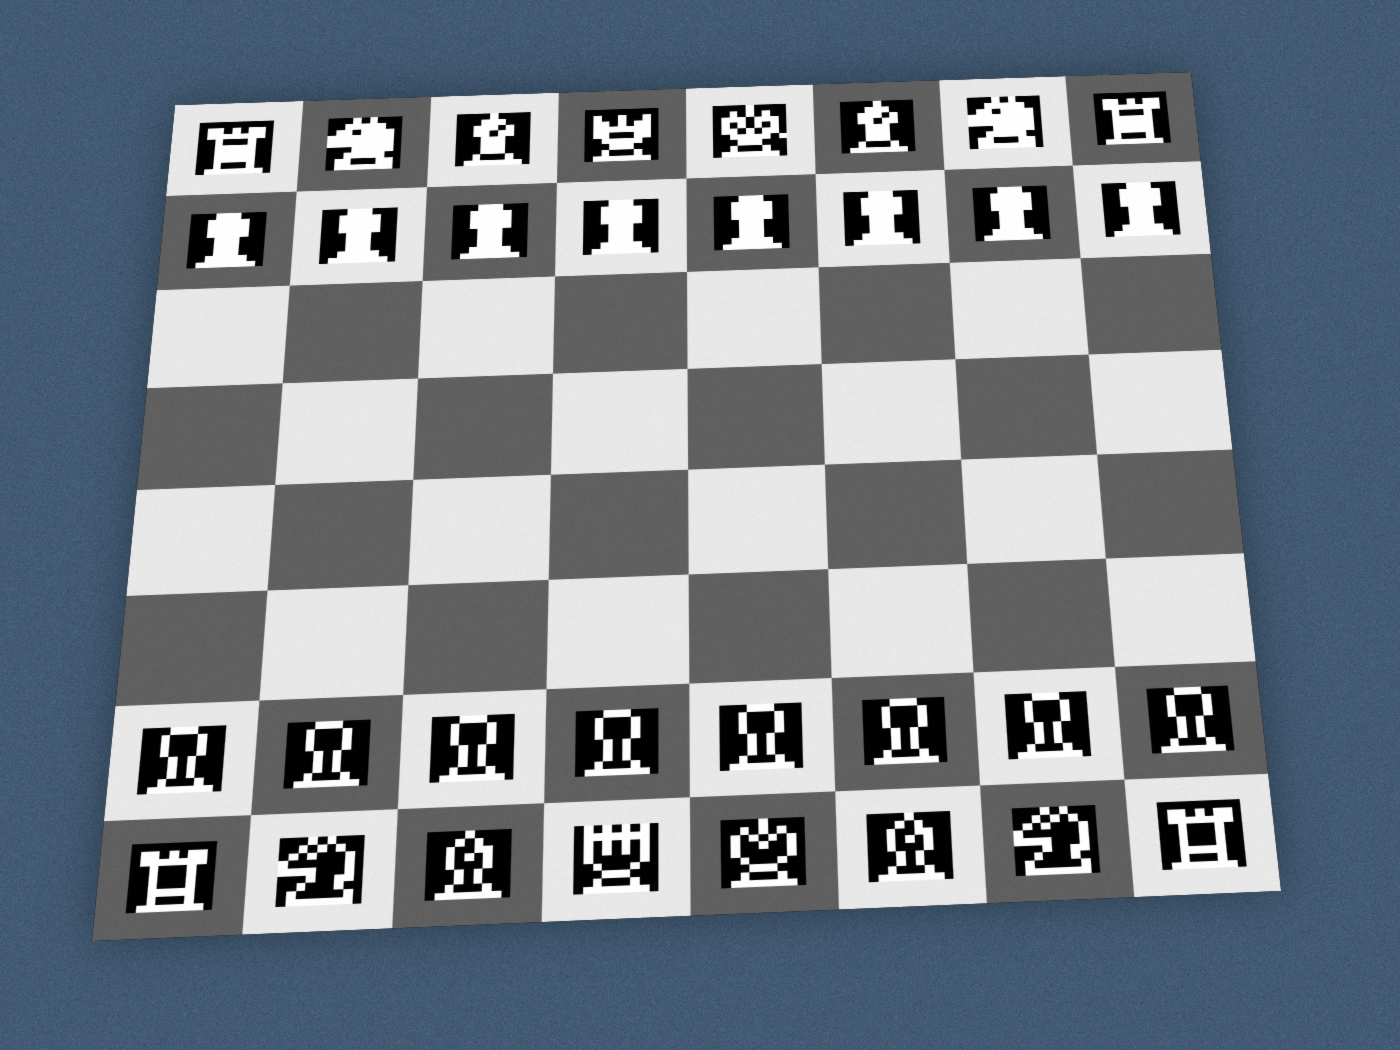
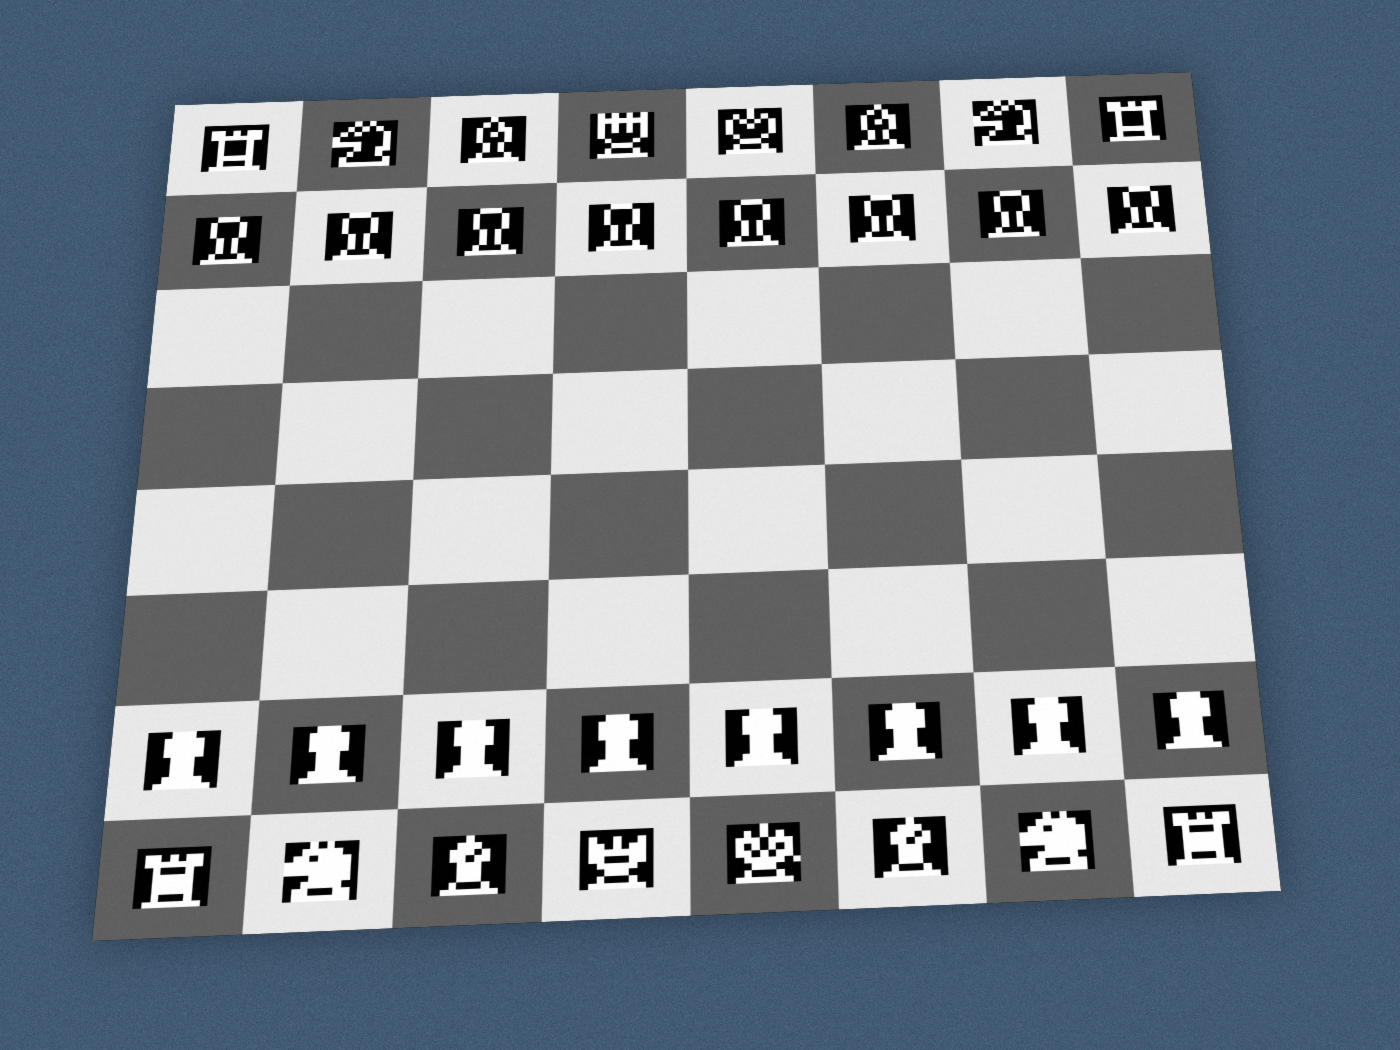
generate print sheets to be printed

diff --git a/aruco/generate_print_sheets.py b/aruco/generate_print_sheets.py
@@ -1,0 +1,67 @@
+#!/usr/bin/env python3
+"""Generate an A4 print sheet containing three 32-piece marker sets."""
+
+from __future__ import annotations
+
+import argparse
+from pathlib import Path
+
+import cv2
+import numpy as np
+
+from chess_fen import load_markers
+
+
+A4_WIDTH = 2480
+A4_HEIGHT = 3508
+STANDARD_SET = "kqrrbbnn" + "p" * 8 + "KQRRBBNN" + "P" * 8
+PIECE_SYMBOLS = STANDARD_SET * 3
+
+
+def put_text(image, text, position, scale=1.0, thickness=2, colour=(25, 25, 25)):
+    cv2.putText(image, text, position, cv2.FONT_HERSHEY_SIMPLEX, scale, colour, thickness,
+                cv2.LINE_AA)
+
+
+def render_marker(pattern, size: int) -> np.ndarray:
+    marker = np.where(np.asarray(pattern, dtype=np.uint8) == 1, 0, 255).astype(np.uint8)
+    return cv2.resize(marker, (size, size), interpolation=cv2.INTER_NEAREST)
+
+
+def marker_sheet(marker_file: Path, width: int = A4_WIDTH, height: int = A4_HEIGHT) -> np.ndarray:
+    patterns = load_markers(marker_file)
+    marker_indices = {symbol: index for index, symbol in enumerate("kqrbnpKQRBNP")}
+    sheet = np.full((height, width, 3), 255, dtype=np.uint8)
+    columns = 8
+    rows = 12
+    board_size = min(width - 260, height - 650)
+    marker_size = round(board_size / 12)
+    border = 1
+    grid_width = columns * marker_size + (columns - 1) * border
+    grid_height = rows * marker_size + (rows - 1) * border
+    margin_x = 0
+    margin_y = 0
+
+    for copy_number, symbol in enumerate(PIECE_SYMBOLS, start=1):
+        row, column = divmod(copy_number - 1, columns)
+        left = margin_x + column * (marker_size + border)
+        top = margin_y + row * (marker_size + border)
+        marker = render_marker(patterns[marker_indices[symbol]], marker_size)
+        sheet[top:top + marker_size, left:left + marker_size] = cv2.cvtColor(marker, cv2.COLOR_GRAY2BGR)
+
+    return sheet
+
+
+def main() -> int:
+    parser = argparse.ArgumentParser(description=__doc__)
+    parser.add_argument("output", type=Path, help="output A4 PNG path")
+    parser.add_argument("-m", "--markers", type=Path, default=Path("custom_markers.csv"))
+    args = parser.parse_args()
+    args.output.parent.mkdir(parents=True, exist_ok=True)
+    if not cv2.imwrite(str(args.output), marker_sheet(args.markers)):
+        raise OSError(f"could not write {args.output}")
+    return 0
+
+
+if __name__ == "__main__":
+    raise SystemExit(main())

diff --git a/aruco/test_chess_fen.py b/aruco/test_chess_fen.py
@@ -82,8 +82,8 @@ class ChessFenTests(unittest.TestCase):
             placements[(6, column)] = 5
             placements[(7, column)] = marker_id
         expected = self.expected_fen([
-            "rnbqkbnr", "pppppppp", "........", "........",
-            "........", "........", "PPPPPPPP", "RNBQKBNR",
+            "RNBQKBNR", "PPPPPPPP", "........", "........",
+            "........", "........", "pppppppp", "rnbqkbnr",
         ])
         self.assertEqual(self.decode(self.render_board(placements)), expected)
 
@@ -94,7 +94,7 @@ class ChessFenTests(unittest.TestCase):
             for column in range(6)
         }
         rotations = {(row, column): (row + column) % 4 for row, column in placements}
-        expected_rows = ["KQRBNP2"] + ["........"] * 6 + ["kqrbnp2"]
+        expected_rows = ["kqrbnp2"] + ["........"] * 6 + ["KQRBNP2"]
         self.assertEqual(
             self.decode(self.render_board(placements, rotations)),
             self.expected_fen(expected_rows),
@@ -110,7 +110,7 @@ class ChessFenTests(unittest.TestCase):
             (7, 7): 5,
         }
         expected_rows = [
-            "4k3", "8", "3B4", "5p2", "2K5", "6r1", "8", "7P",
+            "4K3", "8", "3b4", "5P2", "2k5", "6R1", "8", "7p",
         ]
         self.assertEqual(self.decode(self.render_board(placements)), self.expected_fen(expected_rows))
 
@@ -123,7 +123,7 @@ class ChessFenTests(unittest.TestCase):
         destination = np.array([[70, 40], [1060, 20], [1100, 1010], [30, 1040]], dtype=np.float32)
         transform = cv2.getPerspectiveTransform(source, destination)
         image = cv2.warpPerspective(self.render_board(placements), transform, (1130, 1080), borderValue=(255, 255, 255))
-        expected_rows = ["K7", "1q6", "2Q5", "3r4", "4R3", "5b2", "6B1", "7n"]
+        expected_rows = ["k7", "1Q6", "2q5", "3R4", "4r3", "5B2", "6b1", "7N"]
         self.assertEqual(self.decode(image, destination), self.expected_fen(expected_rows))
 
     def test_fen_generator_round_trip(self):

diff --git a/aruco/generate_chess_position.py b/aruco/generate_chess_position.py
@@ -12,7 +12,7 @@ import numpy as np
 from chess_fen import load_markers
 
 
-PIECE_MARKER_INDEX = {symbol: index for index, symbol in enumerate("KQRBNPkqrbnp")}
+PIECE_MARKER_INDEX = {symbol: index for index, symbol in enumerate("kqrbnpKQRBNP")}
 
 
 def parse_fen_board(fen: str) -> list[list[str | None]]:
@@ -41,7 +41,7 @@ def render_position(
     fen: str,
     marker_file: Path = Path("custom_markers.csv"),
     board_size: int = 960,
-    marker_fraction: float = 2.0 / 3.0,
+    marker_fraction: float = 0.5,
     rotation: int = 0,
 ) -> np.ndarray:
     if board_size < 8:
@@ -86,7 +86,7 @@ def main() -> int:
     parser.add_argument("output", type=Path, help="output PNG path")
     parser.add_argument("-m", "--markers", type=Path, default=Path("custom_markers.csv"))
     parser.add_argument("--size", type=int, default=960, help="board width and height in pixels")
-    parser.add_argument("--marker-fraction", type=float, default=2.0 / 3.0,
+    parser.add_argument("--marker-fraction", type=float, default=0.5,
                         help="marker width as a fraction of a board square")
     parser.add_argument("--rotation", type=int, choices=range(4), default=0,
                         help="rotate every marker by 90-degree turns")

diff --git a/aruco/chess_fen.py b/aruco/chess_fen.py
@@ -2,8 +2,8 @@
 """Detect the custom 9x9 chess-piece markers in a photograph and print FEN.
 
 The marker file contains one 9x9 bitmap per line, encoded row-by-row as hex.
-The first six markers are white pieces (K, Q, R, B, N, P); the last six are
-the corresponding black pieces (k, q, r, b, n, p).
+The first six markers are black pieces (k, q, r, b, n, p); the last six are
+the corresponding white pieces (K, Q, R, B, N, P).
 """
 
 from __future__ import annotations
@@ -16,7 +16,7 @@ from pathlib import Path
 
 
 MARKER_SIZE = 9
-PIECE_SYMBOLS = "KQRBNPkqrbnp"
+PIECE_SYMBOLS = "kqrbnpKQRBNP"
 
 
 @dataclass

diff --git a/aruco/generate_photorealistic_test.py b/aruco/generate_photorealistic_test.py
@@ -29,7 +29,7 @@ def make_test_image(
     seed: int = 2026,
 ) -> tuple[np.ndarray, np.ndarray]:
     rng = np.random.default_rng(seed)
-    board = render_position(fen, board_size=960, marker_fraction=0.58)
+    board = render_position(fen, board_size=960, marker_fraction=0.5)
     board = add_print_texture(board, seed)
 
     width, height = output_size
